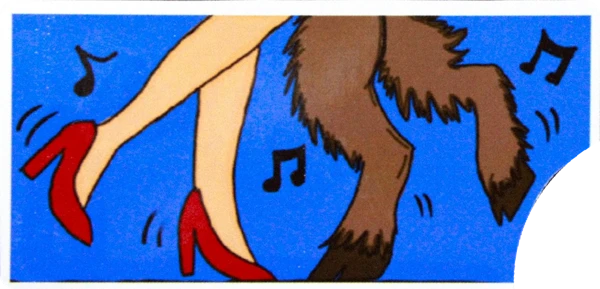
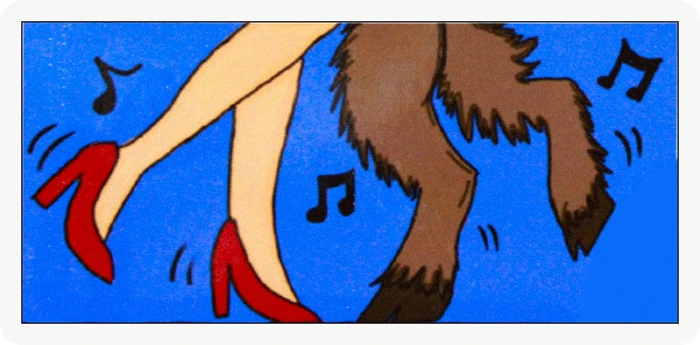
Corrige el sticker El baile: versión completa en colección, selector, muro y exportación

diff --git a/js/contenidos.js b/js/contenidos.js
@@ -28,7 +28,6 @@ window.SITE = {
   merchFamilies: [
     { id: 'cruces', title: 'Las Tres Cruces', shape: 'Sticker circular', desc: 'Un círculo azul con tres cruces blancas sobre un cerro verde, nubes y una figura alada de cuernos rojos que se asoma por detrás.', photos: [2, 3, 4, 1] },
     { id: 'baile', title: 'El baile', shape: 'Sticker rectangular', desc: 'Sobre fondo azul, unas piernas con tacones rojos bailan junto a unas patas peludas con pezuñas, entre notas musicales.', photos: [5, 6, 8] },
-    { id: 'juntos', title: 'Los dos diseños juntos', shape: 'Dos stickers', desc: 'El sticker rectangular y el circular fotografiados uno junto al otro.', photos: [7] }
   ],
   merchPhotos: {
     1: 'Cuatro stickers circulares en fila sobre fondo claro', 2: 'Un sticker circular sobre fondo claro', 3: 'Un sticker circular sobre fondo oscuro', 4: 'Tres stickers circulares en fila',
@@ -128,8 +127,8 @@ window.SITE = {
       hook: 'Dos diseños para pegar donde quieras.',
       mergeSyn: true, find: 'Dos diseños de stickers inspirados en las Tres Cruces y el Buziraco, una galería de fotografías que puedes ampliar y descargar, y un muro interactivo para crear tu propia composición.',
       synopsis: 'Esta colección reúne dos diseños de stickers inspirados en las Tres Cruces y en los símbolos de la historia. Incluye una galería de fotografías para ampliar y descargar, y un muro interactivo donde puedes crear tu propia composición.',
-      format: 'Dos diseños, ocho fotografías y un muro interactivo', state: 'Disponible para ver', cta: 'Ver los diseños', pieceTitle: 'Los dos diseños en fotografías', lupa: true,
-      downloads: [['Las ocho fotografías en ZIP', 'descargas/stickers/Stickers-Las-cruces-que-cargamos.zip', 'Stickers-Las-cruces-que-cargamos.zip', '4 MB']],
+      format: 'Dos diseños, siete fotografías y un muro interactivo', state: 'Disponible para ver', cta: 'Ver los diseños', pieceTitle: 'Los dos diseños en fotografías', lupa: true,
+      downloads: [['Las fotografías en ZIP', 'descargas/stickers/Stickers-Las-cruces-que-cargamos.zip', 'Stickers-Las-cruces-que-cargamos.zip', '4 MB']],
       next: { to: 'playlist', label: 'Descubre los sonidos de Cali' } },
     { key: 'playlist', group: 'detras', layout: 'story', num: '10', type: 'Playlist', title: 'Playlist del Buziraco', kind: 'playlist', cover: 'assets/portadas/playlist.webp', pos: '50% 50%', fit: 'contain', w: 4, h: 340, team: 'album',
       sub: 'La música que acompaña al universo del Buziraco.',

diff --git a/js/main.js b/js/main.js
@@ -209,11 +209,11 @@
     var sec = el('section', { 'class': 'packs' }, [el('h2', { 'class': 'sub', text: 'Colecciones' }),
       el('p', { 'class': 'piece-note just', text: 'Los dos diseños se agrupan en tres colecciones. Por ahora se disfrutan como galería visual y como descarga. Si te interesa tener alguno, deja constancia con el botón de cada colección.' })]);
     var grid = el('div', { 'class': 'pack-grid' }), msg = el('p', { 'class': 'pack-msg', role: 'status', 'aria-live': 'polite' });
-    [['Colección Las Tres Cruces', 'El sticker circular con las tres cruces y la figura alada.', 'assets/merch/sticker-cut.webp'], ['Colección El baile', 'El sticker rectangular con los tacones rojos y las patas con pezuñas.', 'assets/merch/sticker-rect-cut.webp'], ['Pack de los dos diseños', 'Un sticker circular y uno rectangular, como en la fotografía de la colección.', 'assets/merch/sticker-7-thumb.webp']].forEach(function (p) {
+    [['Colección Las Tres Cruces', 'El sticker circular con las tres cruces y la figura alada.', 'assets/merch/sticker-cut.webp'], ['Colección El baile', 'El sticker rectangular con los tacones rojos y las patas con pezuñas.', 'assets/merch/sticker-rect-cut.webp'], ['Pack de los dos diseños', 'Un sticker circular y uno rectangular, cada uno con su diseño completo.', ['assets/merch/sticker-cut.webp', 'assets/merch/sticker-rect-cut.webp']]].forEach(function (p) {
       var act;
       if (S.contact) act = el('a', { 'class': 'btn', href: S.contact, text: 'Consultar disponibilidad' });
       else { act = el('button', { type: 'button', 'class': 'btn', text: 'Me interesa esta colección' }); act.addEventListener('click', function () { msg.textContent = 'Gracias por tu interés en «' + p[0] + '». Esta web aún no tiene un canal para pedir los stickers, así que este botón no envía datos. Cuando el equipo habilite una forma de contacto, aparecerá aquí.'; }); }
-      grid.appendChild(el('div', { 'class': 'pack' }, [el('img', { src: p[2], alt: '', loading: 'lazy' }), el('h3', { text: p[0] }), el('p', { text: p[1] }), act]));
+      grid.appendChild(el('div', { 'class': 'pack' }, [el('div', { 'class': 'pack-img' }, [].concat(p[2]).map(function (s) { return el('img', { src: s, alt: '', loading: 'lazy' }); })), el('h3', { text: p[0] }), el('p', { text: p[1] }), act]));
     });
     sec.appendChild(grid); sec.appendChild(msg); return sec;
   }

diff --git a/css/v6.css b/css/v6.css
@@ -75,3 +75,9 @@ html.simple .obj-body .hook,html.simple .obj-body p{font-size:18px;line-height:1
 .obj-hero.merge.keep .obj-cover img{height:auto;object-fit:contain}
 @media(max-width:480px){.find{text-align:left;hyphens:manual}}
 html.simple .find{font-size:18px;color:#fff}
+
+/* sticker «El baile» completo: nunca se recorta */
+.stk.rect{aspect-ratio:2.02;border-radius:0}.stk.rect img{object-fit:contain;border-radius:0}
+.pack .pack-img{display:flex;gap:10px;align-items:center;height:120px}.pack .pack-img img{height:100%;width:auto;max-width:48%;object-fit:contain}
+.pack .pack-img img:only-child{max-width:100%}
+.pal img{object-fit:contain}
